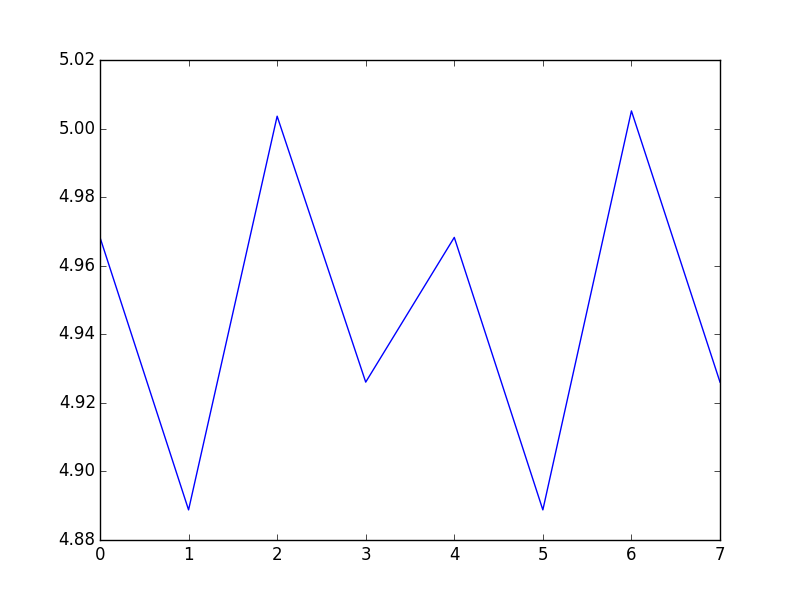
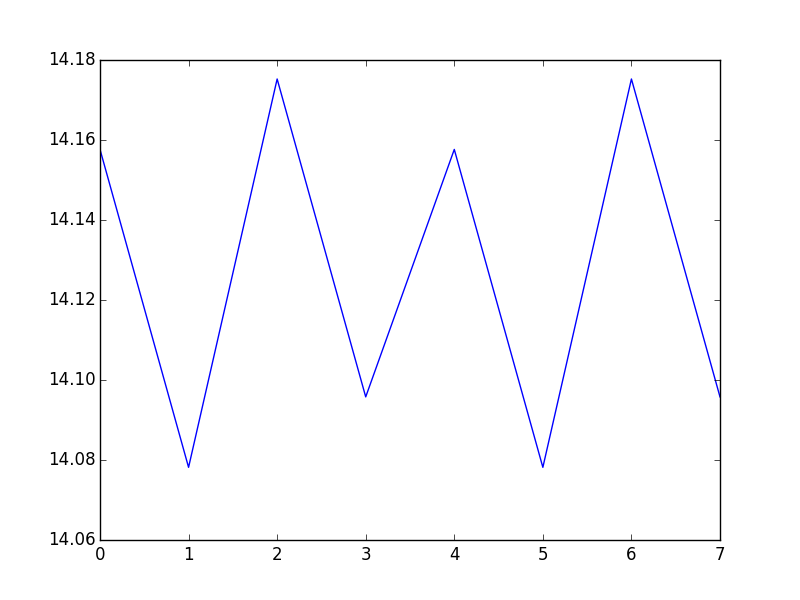
Changes from README.org

diff --git a/simu_crabs.py b/simu_crabs.py
@@ -25,7 +25,7 @@ for model_ in MODEL:
         model = hdda.HDGMM(model=model_)
         param = {'th':th_,'p':p_,'C':4,'init':'kmeans'}
         yp=model.fit(X,param=param)
-        bic.append(model.bic)
+        bic.append(model.bic[-1])
     BIC.append(sp.amin(bic))
     POS.append(sp.argmin(bic))
 plt.figure()
